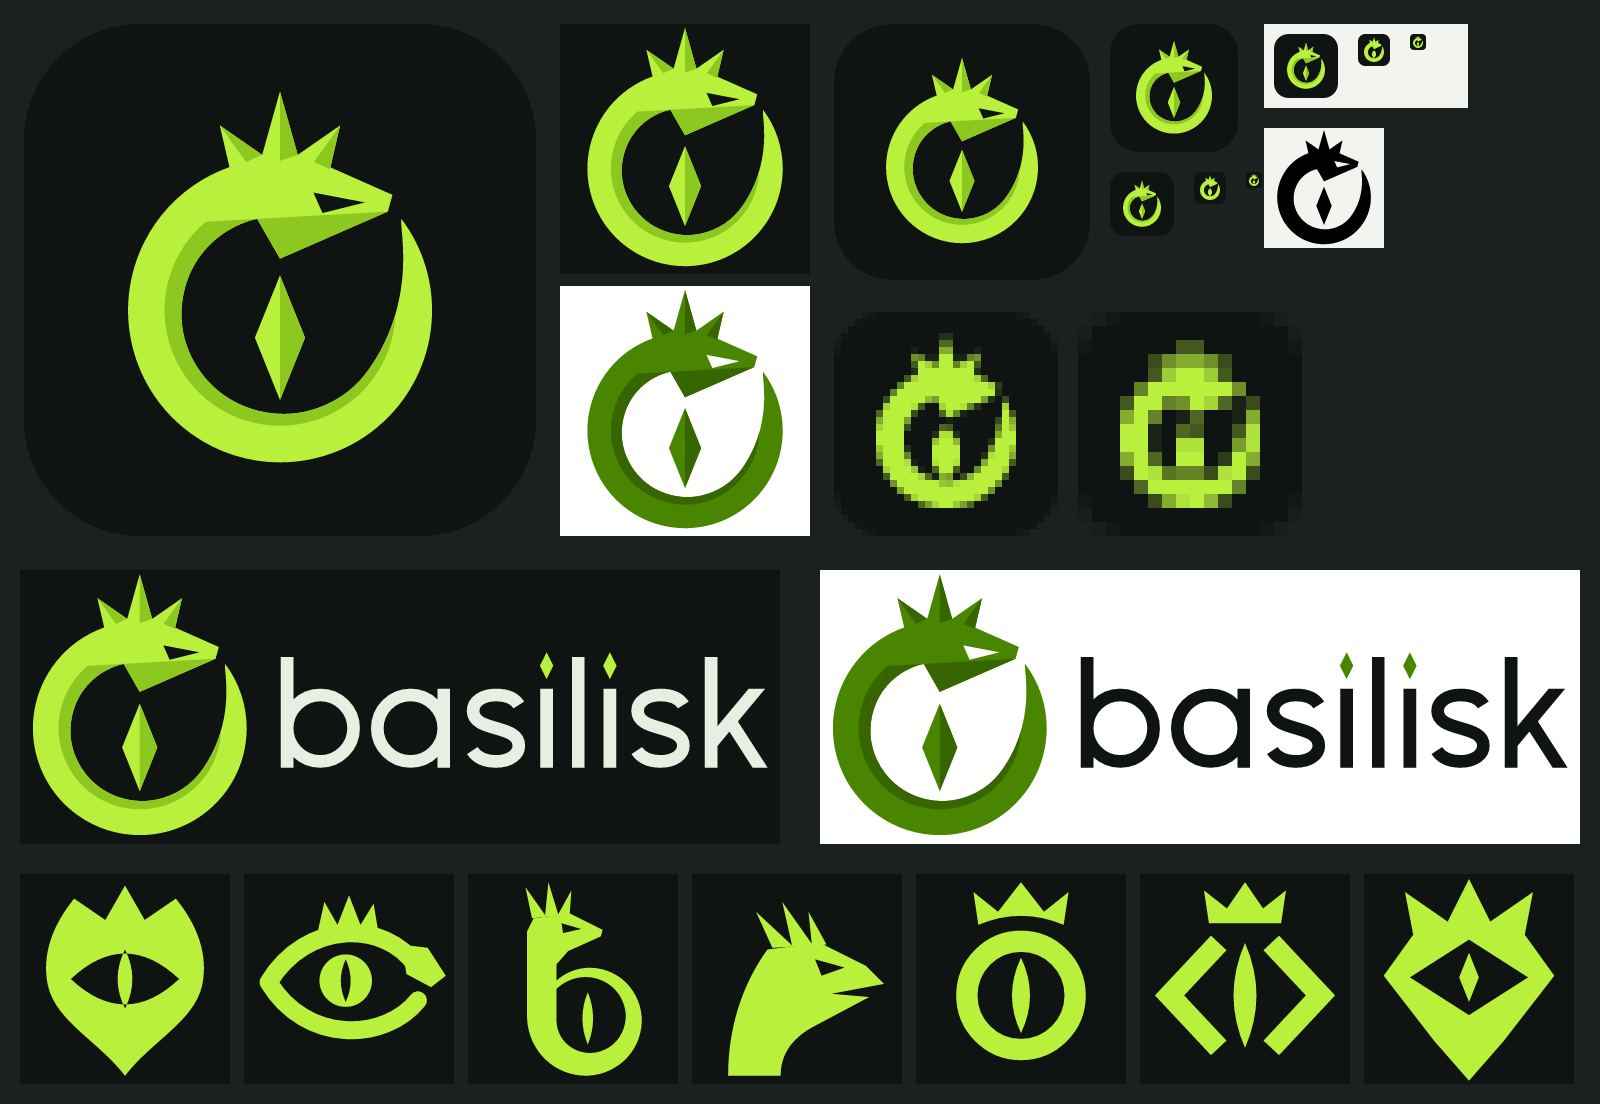
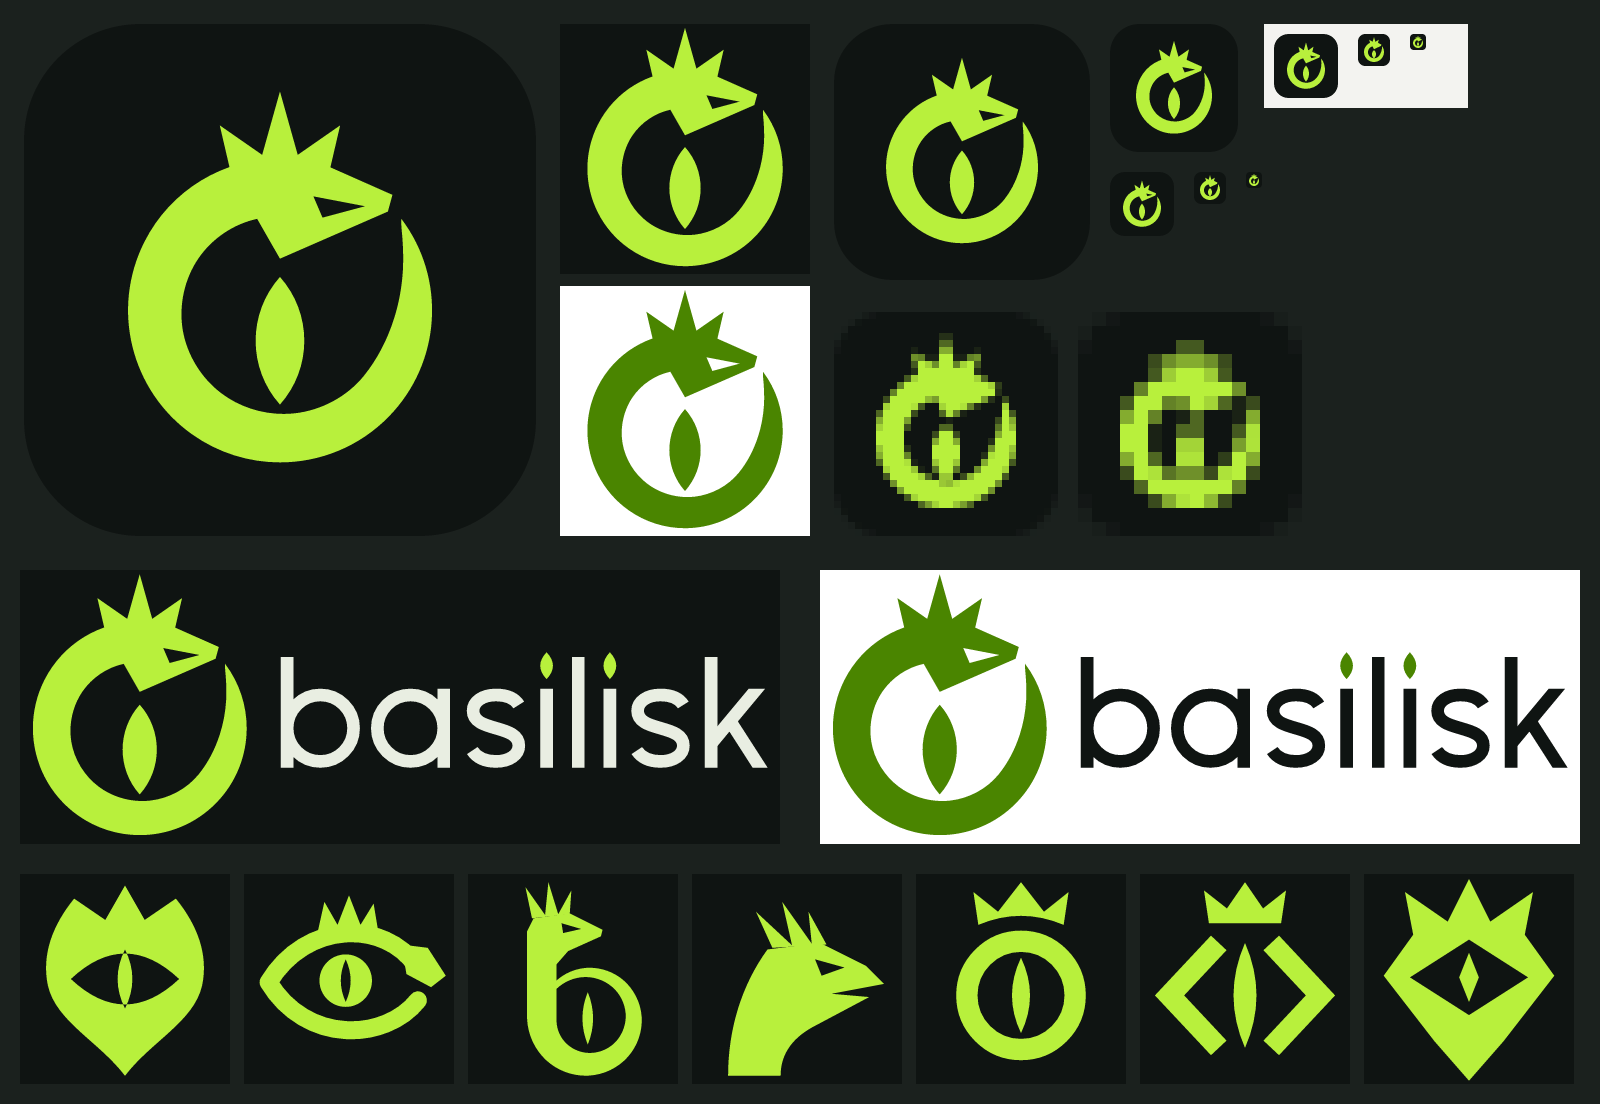
feat(brand): return to the flat mark, add colour and shape variants
Drop the two-tone facets and restore the flat, centred mark as the
main set. Add variants/ with nine colourways, nine shape variations
and three tile shapes of the same icon, plus a labelled preview sheet,
so a direction can be picked by code.

diff --git a/assets/brand/README.md b/assets/brand/README.md
@@ -5,11 +5,11 @@
 ## The idea
 
 The basilisk is the crowned serpent whose gaze kills. The mark is that
-serpent coiled into a ring, and the ring is the iris of an eye: the narrow
-shard in the middle is the pupil. A tool that stares into binaries gets an
-emblem that is itself a stare. Read small it is an eye with a crown; read
-large it is a serpent chasing its tail. The ring and the stroke inside it
-are also a 0 and a 1.
+serpent coiled into a ring, and the ring is the iris of an eye: the slit in
+the middle is the pupil. A tool that stares into binaries gets an emblem
+that is itself a stare. Read small it is an eye with a crown; read large it
+is a serpent chasing its tail. The ring and the stroke inside it are also a
+0 and a 1.
 
 The body is a perfect circle on the outside and a near-even ring for three
 quarters of the way round, then thins into a blade for the tail. The tip of
@@ -17,13 +17,6 @@ the crown, the point of the jaw and the pupil sit on one vertical axis
 through the centre of the ring, so the mark is symmetrical apart from the
 head and the tail. Head, crown, pupil and tail all end in sharp points;
 everything else is one circle. In the icon the ring is centred on the tile.
-
-The colour version is cut like a stone, which is what the basilisk's gaze
-does to things: a second, deeper flat tone marks the serpent's underside
-(belly running into the lower jaw) and the right-hand face of each crown
-spike and of the pupil, so the pupil reads as a gem split down the centre
-axis. The one-colour version drops the second tone and keeps the same
-silhouette.
 
 It sits in the same family as Ghidra's dragon (a mythical beast as a flat
 emblem, coiled) but shares no shapes, colour or lettering with it: this is
@@ -35,27 +28,26 @@ the middle. It uses no Rust or Ferris artwork.
 | Name     | Hex       | Use                                             |
 |----------|-----------|-------------------------------------------------|
 | Venom    | `#B8F03C` | The mark on dark backgrounds; accents           |
-| Venom deep | `#8CC820` | Underside and facets of the Venom mark        |
 | Moss     | `#4A8500` | The mark on light backgrounds (4.5:1 on white)  |
-| Moss deep | `#376600` | Underside and facets of the Moss mark          |
 | Obsidian | `#0F1412` | Icon tile, dark backgrounds, wordmark on light  |
 | Bone     | `#E9EEE2` | Wordmark and text on dark                       |
 
-Two flat tones at most. No gradients, glows, outlines or shadows.
+Flat colour only. No gradients, glows, outlines or shadows.
 
 ## Files
 
 | File                       | Use it for                                                        |
 |----------------------------|-------------------------------------------------------------------|
-| `basilisk-mark.svg`        | Emblem alone, Venom with facets, transparent. Dark backgrounds (in-app, about box, dark docs). |
-| `basilisk-mark-light.svg`  | Emblem alone, Moss with facets, transparent. Light backgrounds.               |
-| `basilisk-mark-mono.svg`   | Emblem in `currentColor`, no facets. One-colour print, UI glyphs, anything that must inherit the text colour. |
+| `basilisk-mark.svg`        | Emblem alone, Venom, transparent. Dark backgrounds (in-app, about box, dark docs). |
+| `basilisk-mark-light.svg`  | Emblem alone, Moss, transparent. Light backgrounds.               |
+| `basilisk-mark-mono.svg`   | Emblem in `currentColor`. One-colour print, UI glyphs, anything that must inherit the text colour. |
 | `basilisk-logo.svg`        | Emblem + wordmark for light backgrounds.                          |
 | `basilisk-logo-dark.svg`   | Emblem + wordmark for dark backgrounds.                           |
 | `basilisk-icon.svg`        | App icon: emblem on the Obsidian tile. Source for 64 px and up.   |
-| `basilisk-icon-small.svg`  | Simplified icon for 16 and 32 px: heavier ring, one colour, no head eye, pupil on the pixel grid. |
+| `basilisk-icon-small.svg`  | Simplified icon for 16 and 32 px: heavier ring, no head eye, pupil centred on the pixel grid. |
 | `png/basilisk-icon-N.png`  | Icon renders at 16, 32, 64, 128, 256, 512, 1024 px (window icon, favicon, bundles). |
 | `png/preview-*.png`        | Previews only (mark, both logos, overview sheet). Not for shipping. |
+| `variants/`                | Colour, shape and tile variants of the icon to choose from, see below. |
 | `concepts/`                | Rejected directions, see below.                                   |
 
 For a README that follows the viewer's theme:
@@ -68,7 +60,7 @@ For a README that follows the viewer's theme:
 ```
 
 The wordmark is drawn as strokes and polygons, so no font is needed. The
-dots on the two i's repeat the pupil.
+dots on the two i's repeat the slit pupil.
 
 ## Clear space and minimum size
 
@@ -77,7 +69,7 @@ dots on the two i's repeat the pupil.
 - Mark: 24 px minimum on screen, 8 mm in print. Below 24 px use the icon
   PNGs (16 and 32 px come from the simplified artwork).
 - Logo: 120 px wide minimum on screen, 30 mm in print.
-- Icon: 16 px minimum. At 16 px it reads as a crowned ring with a pupil; the
+- Icon: 16 px minimum. At 16 px it reads as a crowned ring with a slit; the
   serpent's head only resolves from 32 px up.
 - Do not recolour outside the palette, rotate, stretch, outline, or put the
   Venom mark on a light background (use Moss or mono there).
@@ -86,11 +78,9 @@ dots on the two i's repeat the pupil.
 
 The SVGs are plain paths in a 256-unit box. The ring is a circle of radius
 100 centred on (128, 148); its outer edge is one arc command and its inner
-edge is nine cubic segments. Head, crown and pupil are straight-edged
-polygons; the pupil is a rhombus centred on x = 128. The deeper tone is a
-single path drawn on top: the belly band is everything inside radius 76,
-and each facet is a triangle that reuses the points of the shape under it,
-so if you move a crown or pupil point, move its facet point too.
+edge is nine cubic segments. Head and crown are straight-edged polygons and
+the pupil is two circular arcs centred on x = 128, all safe to nudge by
+hand.
 
 Regenerate the PNGs with [resvg](https://github.com/linebender/resvg):
 
@@ -99,6 +89,29 @@ cd assets/brand
 for s in 16 32;              do resvg -w $s basilisk-icon-small.svg png/basilisk-icon-$s.png; done
 for s in 64 128 256 512 1024; do resvg -w $s basilisk-icon.svg       png/basilisk-icon-$s.png; done
 ```
+
+## Variants
+
+![variants](png/preview-variants.png)
+
+`variants/` holds alternatives of the same flat mark, each a complete icon
+SVG named by the code on the sheet. They are options, not part of the set:
+pick one (or a colour from row A with a shape from row B) and the main
+files get rebuilt around it.
+
+- **A, colour** (same shape): A1 Venom on Obsidian (current), A2 inverted,
+  A3 gold, A4 ember, A5 glass cyan, A6 nightshade violet, A7 bone,
+  A8 bone with a Venom pupil, A9 Venom with an ember pupil. There is no red
+  on purpose: that is Ghidra's colour.
+- **B, shape** (same colour): B1 even ring with lens pupil (current),
+  B2 tapered ring (the first version), B3 gem pupil, B4 iris disc with the
+  slit cut out, B5 bar pupil (a literal 0 and 1), B6 bold, B7 fine line,
+  B8 closed ring with the tail tucked under the jaw (the most symmetrical),
+  B9 five-point crown.
+- **C, tile**: C1 round, C2 hexagon, C3 no tile.
+
+A two-tone faceted version was tried and dropped in favour of the flat
+mark; it is in the branch history (`a55ab1c`).
 
 ## Rejected concepts
 
